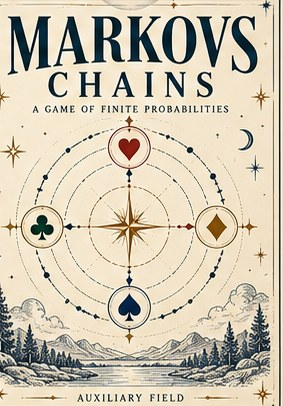
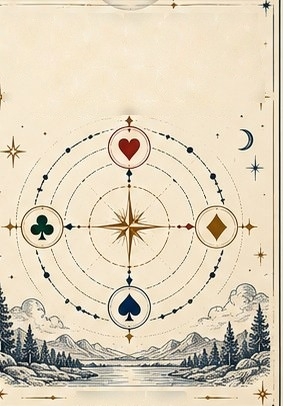
Markovs box: erase lettering from the art, set all box text from data
The supplied box art had its words baked in (and the back still described
building the table). The lettering is inpainted out of box-front.jpg and
box-back.jpg; title, subtitle, imprint, the court-game tagline and the
player/card counts are SVG text from BOX in page.ts, the card count from
the deck.

Claude-Session: https://claude.ai/code/session_01XpPcniK77FYo3hrbH4MFqQ

diff --git a/cells/lab/client/markovs/page.ts b/cells/lab/client/markovs/page.ts
@@ -385,6 +385,14 @@ export default function bootTable() {
 const esc = (t: string) => t.replace(/&/g, '&amp;').replace(/</g, '&lt;');
 /** the tuck box for 54 poker cards (65 × 90 × 19 mm inside), flat: cut the solid line, fold the
  *  dashed ones, glue the narrow flap inside the far side */
+/** every word on the box: the art is lettering-free, so these are set over it */
+const BOX = {
+  title: ['MARKOVS', 'CHAINS'],
+  sub: 'A GAME OF FINITE PROBABILITIES',
+  imprint: 'AUXILIARY FIELD',
+  tagline: ['PLACE THE KINGS IN A COURT.', 'RACE ONE COUNTER TO YOUR SECRET KING.'],
+  info: () => [`2–4 PLAYERS · ${pack().length} CARDS`, 'REQUIRES ONE DIE AND ONE COUNTER'],
+};
 export function boxSvg(): string {
   const G = 12, W = 65, D = 19, H = 90, T = 14;
   const x1 = G, x2 = x1 + W, x3 = x2 + D, x4 = x3 + W, x5 = x4 + D;
@@ -393,12 +401,18 @@ export function boxSvg(): string {
   const cut = `M0 ${y2 + 4}L4 ${y2}H${x2}L${x2 + 1} ${y2}L${x2 + 3} ${y1 + 4}H${x3 - 3}L${x3 - 1} ${y2}H${x3}V${y1}H${x3 + 4}Q${x3 + 4} 0 ${x3 + 9} 0H${x4 - 9}Q${x4 - 4} 0 ${x4 - 4} ${y1}H${x4}V${y2}L${x4 + 1} ${y2}L${x4 + 3} ${y1 + 4}H${x5 - 3}L${x5 - 1} ${y2}H${x5}V${y3}H${x5 - 1}L${x5 - 3} ${y4 - 4}H${x4 + 3}L${x4 + 1} ${y3}H${x4}V${y4}H${x4 - 4}Q${x4 - 4} ${y5} ${x4 - 9} ${y5}H${x3 + 9}Q${x3 + 4} ${y5} ${x3 + 4} ${y4}H${x3}V${y3}H${x3 - 1}L${x3 - 3} ${y4 - 4}H${x2 + 3}L${x2 + 1} ${y3}H4L0 ${y3 - 4}Z`;
   const folds = [[x1, y2, x1, y3], [x2, y2, x2, y3], [x3, y2, x3, y3], [x4, y2, x4, y3], [x2, y2, x5, y2], [x2, y3, x5, y3], [x3, y1, x4, y1], [x3, y4, x4, y4]].map(([a, b, c, d]) => `<path d="M${a} ${b}L${c} ${d}" stroke="${ink}" stroke-width=".25" stroke-dasharray="1.5 1.2"/>`).join('');
   const side = (x: number) => `<g transform="translate(${x + D / 2} ${y2 + H / 2}) rotate(-90)"><text text-anchor="middle" y="1.5" font-size="3.8" font-family="ui-monospace,monospace" letter-spacing=".9" fill="${ink}">MARKOVS CHAINS · 2–4 PLAYERS</text></g>`;
-  const front = `<g transform="translate(${x1} ${y2})"><rect x="3" y="3" width="${W - 6}" height="${H - 6}" fill="none" stroke="${ink}" stroke-width=".3"/><text x="${W / 2}" y="13" text-anchor="middle" font-size="7.5" font-family="Georgia" letter-spacing="-.3" fill="${ink}">Markovs Chains</text><text x="${W / 2}" y="18" text-anchor="middle" font-size="2.2" font-family="ui-monospace,monospace" letter-spacing=".6" fill="#27379b">A GAME OF FINITE PROBABILITIES</text><svg x="${(W - 34) / 2}" y="24" width="34" height="47.5" viewBox="0 0 63 88">${cardSvg({ suit: 0, rank: 5 }, 0, 'bx').replace(/^<svg[^>]*>|<\/svg>$/g, '')}</svg><text x="${W / 2}" y="79" text-anchor="middle" font-size="2.8" font-family="Georgia" fill="${ink}">Build the table together.</text><text x="${W / 2}" y="83" text-anchor="middle" font-size="2.8" font-family="Georgia" fill="${ink}">Race one counter to your secret King.</text></g>`;
+  const front = `<g transform="translate(${x1} ${y2})"><rect x="3" y="3" width="${W - 6}" height="${H - 6}" fill="none" stroke="${ink}" stroke-width=".3"/><text x="${W / 2}" y="13" text-anchor="middle" font-size="7.5" font-family="Georgia" letter-spacing="-.3" fill="${ink}">Markovs Chains</text><text x="${W / 2}" y="18" text-anchor="middle" font-size="2.2" font-family="ui-monospace,monospace" letter-spacing=".6" fill="#27379b">A GAME OF FINITE PROBABILITIES</text><svg x="${(W - 34) / 2}" y="24" width="34" height="47.5" viewBox="0 0 63 88">${cardSvg({ suit: 0, rank: 5 }, 0, 'bx').replace(/^<svg[^>]*>|<\/svg>$/g, '')}</svg>${BOX.tagline.map((l, i) => `<text x="${W / 2}" y="${79 + i * 4}" text-anchor="middle" font-size="2.5" font-family="Georgia" fill="${ink}">${esc(l.charAt(0) + l.slice(1).toLowerCase().replace(/kings?\b/g, (k) => k[0].toUpperCase() + k.slice(1)))}</text>`).join('')}</g>`;
   const lines = ['One counter, one die, this deck.', 'The Ace of spades in the centre. Each', 'player draws a Two face down: its suit is', 'their King, their secret.', '', 'THE COURT: each player is dealt a King and', 'places it on the rim, off the edge middles.', 'RACE: lay a card and roll, either order —', 'the card under the counter says where it goes.', 'Jacks steer, Jokers gamble, Queens swap.', '', 'First to bring the counter to their own', 'King wins — whoever moved it.', '', '2–4 players · 20 minutes · 54 cards'];
   const back = `<g transform="translate(${x3} ${y2})"><rect x="3" y="3" width="${W - 6}" height="${H - 6}" fill="none" stroke="${ink}" stroke-width=".3"/><text x="${W / 2}" y="11" text-anchor="middle" font-size="4.5" font-family="Georgia" fill="${ink}">Markovs Chains</text>${lines.map((l, i) => `<text x="6" y="${18 + i * 4.3}" font-size="2.7" font-family="Georgia" fill="${ink}">${esc(l)}</text>`).join('')}<text x="${W / 2}" y="${H - 6}" text-anchor="middle" font-size="2.2" font-family="ui-monospace,monospace" fill="#8e826b">AUXILIARY FIELD · LAB · EXPERIMENT 05</text></g>`;
+  // the supplied art with its lettering removed; the words are set here, from BOX
+  const navy = '#1d2b3c', serif = 'Georgia,\'Times New Roman\',serif';
+  const set = (x: number, y: number, size: number, text: string, len: number, fill = navy, adjust = 'spacing') => `<text x="${x}" y="${y}" text-anchor="middle" font-size="${size}" font-family="${serif}" fill="${fill}" textLength="${len}" lengthAdjust="${adjust}">${esc(text)}</text>`;
+  const artFront = `<g transform="translate(${x1} ${y2})"><image href="${ASSETS}box-front.jpg" width="${W}" height="${H}" preserveAspectRatio="none"/>${set(W / 2, 14.6, 12.5, BOX.title[0], 56, navy, 'spacingAndGlyphs')}${set(W / 2, 21.6, 6.2, BOX.title[1], 38)}${set(W / 2, 25.6, 2.4, BOX.sub, 45, '#2a2a28')}${set(30, 89.2, 2.7, BOX.imprint, 24, '#2a2a28')}</g>`;
+  const info = BOX.info();
+  const artBack = `<g transform="translate(${x3} ${y2})"><image href="${ASSETS}box-back.jpg" width="${W}" height="${H}" preserveAspectRatio="none"/>${set(W / 2, 72.2, 3.1, BOX.tagline[0], 44, '#2a2a28')}${set(W / 2, 76.9, 3.1, BOX.tagline[1], 59, '#2a2a28')}${set(W / 2, 85.6, 2.7, info[0], 36, '#2a2a28')}${set(W / 2, 88.6, 2.1, info[1], 40, '#2a2a28')}</g>`;
   const lid = `<g transform="translate(${x3} ${y1})"><text x="${W / 2}" y="${D / 2 + 1.5}" text-anchor="middle" font-size="3.6" font-family="Georgia" fill="${ink}">♥ ♦ ♣ ♠</text></g>`;
   const glue = `<text transform="translate(${G / 2} ${y2 + H / 2}) rotate(-90)" text-anchor="middle" font-size="2.4" font-family="ui-monospace,monospace" fill="#8e826b">GLUE</text>`;
-  return `<svg viewBox="-5 -5 ${x5 + 10} ${y5 + 10}" width="${x5 + 10}mm" height="${y5 + 10}mm" aria-hidden="true"><path d="${cut}" fill="${PAPER}" stroke="${ink}" stroke-width=".35"/>${folds}${ASSETS ? `<image href="${ASSETS}box-front.jpg" x="${x1}" y="${y2}" width="${W}" height="${H}" preserveAspectRatio="none"/><image href="${ASSETS}box-back.jpg" x="${x3}" y="${y2}" width="${W}" height="${H}" preserveAspectRatio="none"/>` : front + back}${side(x2)}${side(x4)}${lid}${glue}</svg>`;
+  return `<svg viewBox="-5 -5 ${x5 + 10} ${y5 + 10}" width="${x5 + 10}mm" height="${y5 + 10}mm" aria-hidden="true"><path d="${cut}" fill="${PAPER}" stroke="${ink}" stroke-width=".35"/>${folds}${ASSETS ? artFront + artBack : front + back}${side(x2)}${side(x4)}${lid}${glue}</svg>`;
 }
 /** the rules as a folded insert for the box: six panels of 60 × 85 mm on one sheet, 180 × 170 mm
  *  — fold the sheet in half (the bottom row is printed upside down, so it reads once folded

diff --git a/cells/lab/devtools/markovs-backlog.md b/cells/lab/devtools/markovs-backlog.md
@@ -107,5 +107,6 @@ so re-baseline after any deploy.
 
 - **The stay loop on the dials** (Eddy, Switch): it reaches toward the western port and reads as an
   exit. Make stays unmistakably internal to the hub; test at card size with a counter on the card.
-- **Box back** (`static/markovs/box-back.jpg`): supplied art; check it no longer describes building
-  the table, since the game is now the court game.
+- **Box art** (`static/markovs/box-*.jpg`): the supplied art with its lettering erased; every
+  word on the box (title, tagline, player count, card count from the deck) is set in `BOX` in
+  `client/markovs/page.ts`, so a rules change only needs that text edited.
